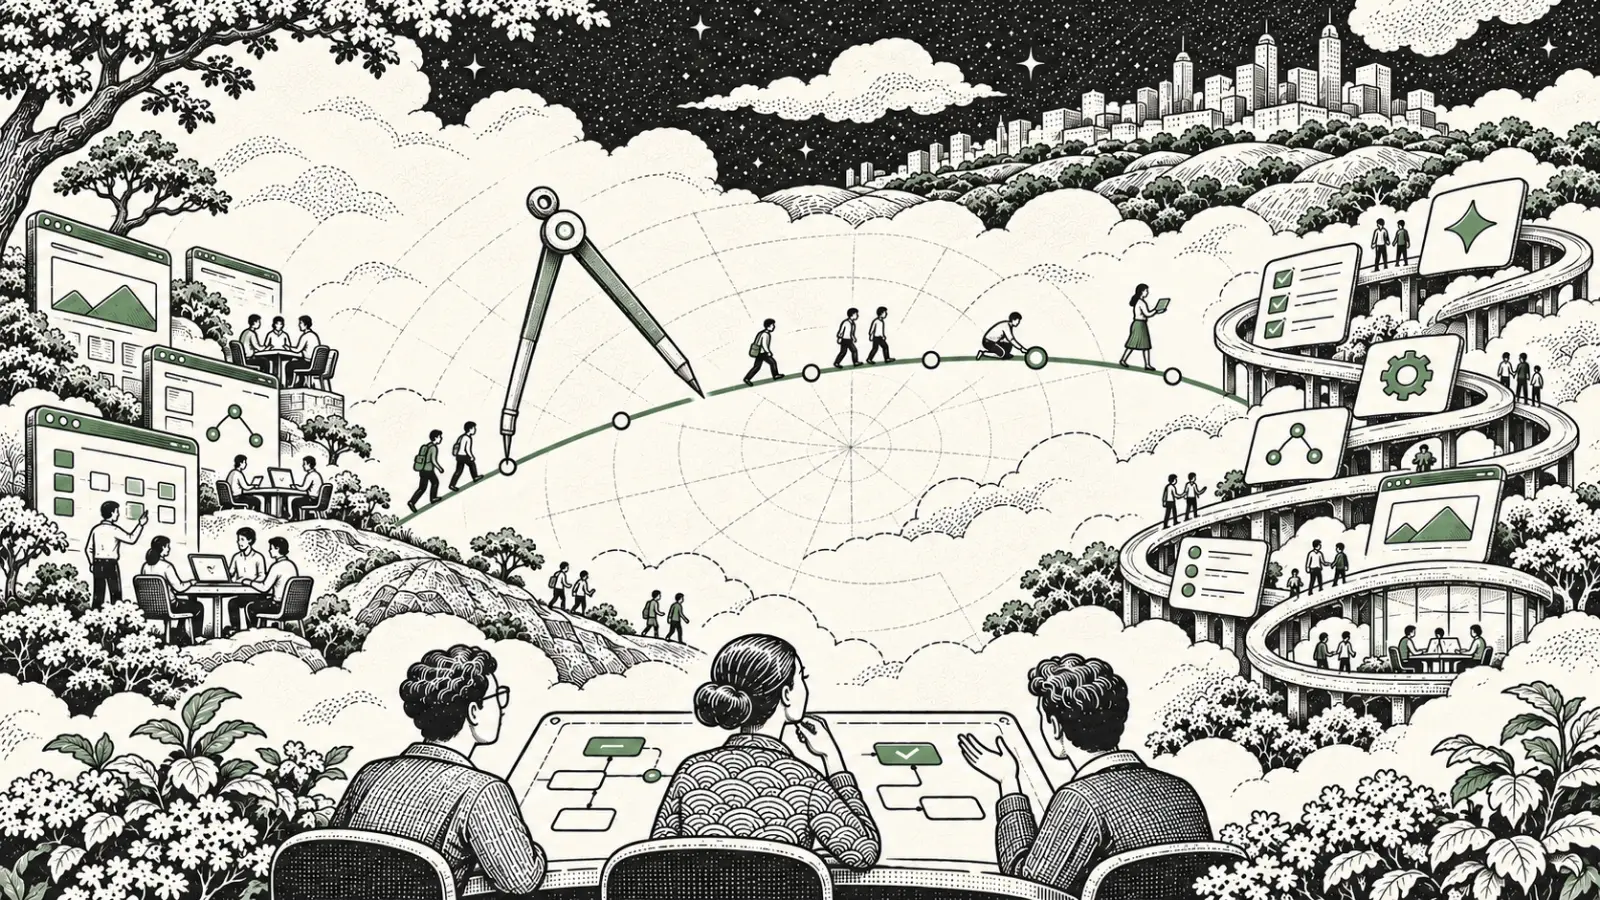
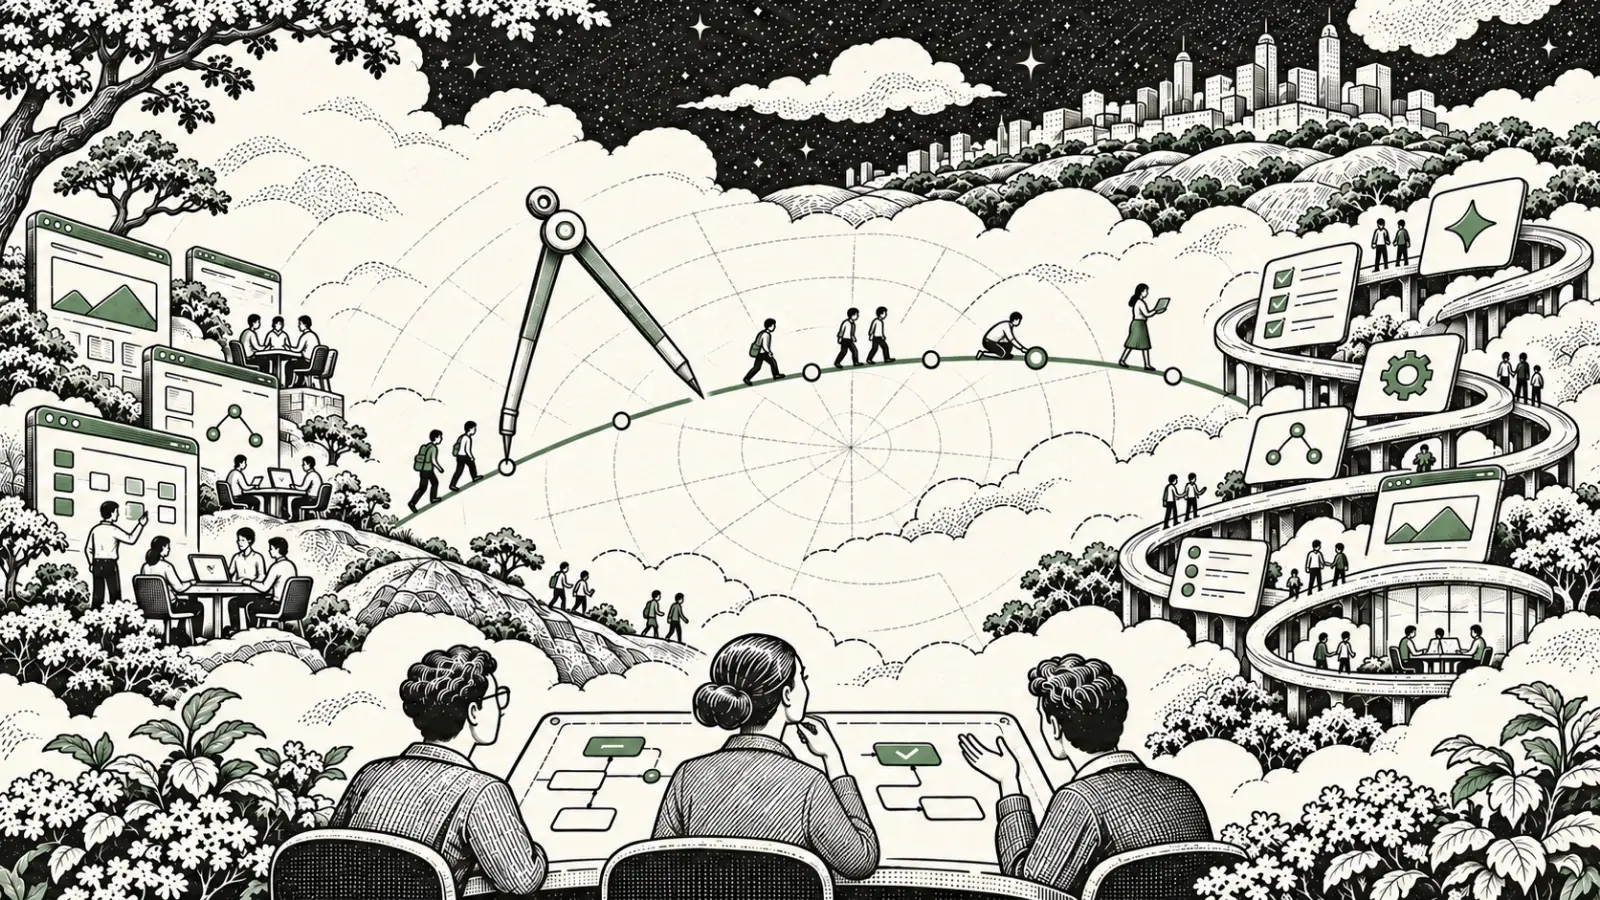
Writing: the Chapter 1 heroes framed as plates, plain clothing in Lesson 1
The open items from the Chapter 1 review that could be closed.

- shift.css: .shift-hero-art--plate gives a Narrative Ink hero the
  card radius, a hairline, and the resting shadow. A full plate left
  bare sat on the sage ground as a pale square-cornered rectangle
  where the old heroes were transparent. The modifier is on the three
  redrawn heroes only; the nine transparent ones keep the bare class.
  shift.css?v= 18 -> 19 on the thirteen pages that load it.
- Lesson 1's hero and concept: the dispatcher's wave-pattern jacket
  redrawn as plain hatching, nothing else moved.

Each of the three lessons counts one more raised surface in cards.mjs,
its hero: 14, 17, and 15. resting, states, typescale, curves, and
cards pass scoped to the three; readtime and the fast six pass; shots
clean at 390, 768, and 1440; all 45 Chapter 1 files pass palette.

diff --git a/writing/what-changes-when-you-design-the-task-instead-of-the-app.html b/writing/what-changes-when-you-design-the-task-instead-of-the-app.html
@@ -115,7 +115,7 @@
   <link rel="stylesheet" href="../style.css?v=20261114b" />
   <link rel="stylesheet" href="../site-nav.css?v=20261030b" />
   <link rel="stylesheet" href="../read-aloud.css?v=7" />
-  <link rel="stylesheet" href="shift.css?v=18" />
+  <link rel="stylesheet" href="shift.css?v=19" />
   <script src="../site-nav.js?v=20260906a" defer></script>
   <script src="../read-aloud.js?v=4" defer></script>
   <script src="../writing.js?v=20261030a" defer></script>
@@ -275,7 +275,7 @@
           <h1 class="case-title">What changes when you design the task instead of the app?</h1>
           <p class="build-dek">The unit of design moves from one application&rsquo;s screens to the whole job a person is trying to finish, with agents carrying the steps between tools. The design work becomes deciding what the agent gathers, what it shows, and where the person decides.</p>
           </div>
-          <img class="shift-hero-art" src="../img/writing/shift/narrative-ink/chapter-1/chapter1-lesson1-hero.webp?v=4" width="1600" height="900" alt="" decoding="async" />
+          <img class="shift-hero-art shift-hero-art--plate" src="../img/writing/shift/narrative-ink/chapter-1/chapter1-lesson1-hero.webp?v=5" width="1600" height="900" alt="" decoding="async" />
         </div>
         <aside class="shift-terms" aria-labelledby="shift-terms-label">
           <p class="shift-terms-label" id="shift-terms-label">Three terms first</p>
@@ -352,7 +352,7 @@
           <figure class="writing-figure shift-concept">
             <figcaption>What the person does between the tools, drawn</figcaption>
             <div class="shift-concept-body">
-              <img class="shift-concept-art" src="../img/writing/shift/narrative-ink/chapter-1/chapter1-lesson1-human-decision.webp?v=3" width="960" height="640" loading="lazy" decoding="async" alt="An illustrated agent gathers route, time, and warehouse evidence for a dispatcher, who can approve or decline." />
+              <img class="shift-concept-art" src="../img/writing/shift/narrative-ink/chapter-1/chapter1-lesson1-human-decision.webp?v=4" width="960" height="640" loading="lazy" decoding="async" alt="An illustrated agent gathers route, time, and warehouse evidence for a dispatcher, who can approve or decline." />
               <p class="shift-concept-line">Three tools, one job. Design the job, and the tools line up behind it.</p>
             </div>
           </figure>

diff --git a/writing/how-do-you-write-design-quality-down-so-an-agent-can-use-it.html b/writing/how-do-you-write-design-quality-down-so-an-agent-can-use-it.html
@@ -115,7 +115,7 @@
   <link rel="stylesheet" href="../style.css?v=20261114b" />
   <link rel="stylesheet" href="../site-nav.css?v=20261030b" />
   <link rel="stylesheet" href="../read-aloud.css?v=7" />
-  <link rel="stylesheet" href="shift.css?v=18" />
+  <link rel="stylesheet" href="shift.css?v=19" />
   <script src="../site-nav.js?v=20260906a" defer></script>
   <script src="../read-aloud.js?v=4" defer></script>
   <script src="../writing.js?v=20261030a" defer></script>
@@ -273,7 +273,7 @@
           <h1 class="case-title">How do you write design quality down so an agent can use it?</h1>
           <p class="build-dek">Put it in three places: a design system that says why, not only what; checks that run on every change; and a definition of done written before the build starts. Judgment used to spread through reviews and handoffs. With agents building, it has to spread through the system itself.</p>
           </div>
-          <img class="shift-hero-art" src="../img/writing/shift/narrative-ink/chapter-1/chapter1-lesson3-hero.webp?v=1" width="1600" height="900" alt="" decoding="async" />
+          <img class="shift-hero-art shift-hero-art--plate" src="../img/writing/shift/narrative-ink/chapter-1/chapter1-lesson3-hero.webp?v=1" width="1600" height="900" alt="" decoding="async" />
         </div>
         <aside class="shift-terms" aria-labelledby="shift-terms-label">
           <p class="shift-terms-label" id="shift-terms-label">Three terms first</p>

diff --git a/writing/what-is-ux-for-when-agents-build-the-software.html b/writing/what-is-ux-for-when-agents-build-the-software.html
@@ -115,7 +115,7 @@
   <link rel="stylesheet" href="../style.css?v=20261114b" />
   <link rel="stylesheet" href="../site-nav.css?v=20261030b" />
   <link rel="stylesheet" href="../read-aloud.css?v=7" />
-  <link rel="stylesheet" href="shift.css?v=18" />
+  <link rel="stylesheet" href="shift.css?v=19" />
   <script src="../site-nav.js?v=20260906a" defer></script>
   <script src="../read-aloud.js?v=4" defer></script>
   <script src="../writing.js?v=20261030a" defer></script>
@@ -274,7 +274,7 @@
           <h1 class="case-title">What is UX for when agents build the software?</h1>
           <p class="build-dek">Three things a factory can&rsquo;t do for itself: decide what&rsquo;s worth building, judge whether what it built works for people, and supply the context it builds from. An AI pipeline can plan, build, test, and ship without anyone asking a user, and it will report that everything is fine.</p>
           </div>
-          <img class="shift-hero-art" src="../img/writing/shift/narrative-ink/chapter-1/chapter1-lesson2-hero.webp?v=1" width="1600" height="900" alt="" decoding="async" />
+          <img class="shift-hero-art shift-hero-art--plate" src="../img/writing/shift/narrative-ink/chapter-1/chapter1-lesson2-hero.webp?v=1" width="1600" height="900" alt="" decoding="async" />
         </div>
         <aside class="shift-terms" aria-labelledby="shift-terms-label">
           <p class="shift-terms-label" id="shift-terms-label">Three terms first</p>

diff --git a/writing/shift.css b/writing/shift.css
@@ -102,6 +102,17 @@
   height: auto;
   aspect-ratio: 16 / 9;
 }
+/* A Narrative Ink hero is a full plate, paper to every edge, where the
+   first heroes were one object on a transparent ground. Left bare, the
+   plate sits on the chapter ground as a pale square-cornered rectangle, so
+   it takes the frame the scene below it has: the card radius, a hairline,
+   and the resting shadow. The modifier goes on the <img> with the plate;
+   a transparent hero keeps the bare class. */
+.shift-hero-art--plate {
+  border: 1px solid var(--rule-card);
+  border-radius: var(--radius-xl);
+  box-shadow: var(--shadow-card);
+}
 .shift-series {
   display: flex;
   flex-wrap: wrap;

diff --git a/writing/how-do-you-run-a-design-sprint-for-an-ai-product.html b/writing/how-do-you-run-a-design-sprint-for-an-ai-product.html
@@ -115,7 +115,7 @@
   <link rel="stylesheet" href="../style.css?v=20261114b" />
   <link rel="stylesheet" href="../site-nav.css?v=20261030b" />
   <link rel="stylesheet" href="../read-aloud.css?v=7" />
-  <link rel="stylesheet" href="shift.css?v=18" />
+  <link rel="stylesheet" href="shift.css?v=19" />
   <script src="../site-nav.js?v=20260906a" defer></script>
   <script src="../read-aloud.js?v=4" defer></script>
   <script src="../writing.js?v=20261030a" defer></script>

diff --git a/writing/index.html b/writing/index.html
@@ -118,7 +118,7 @@
   <link rel="stylesheet" href="../style.css?v=20261114c" />
   <link rel="stylesheet" href="../site-nav.css?v=20261030b" />
   <link rel="stylesheet" href="index.css?v=3" />
-  <link rel="stylesheet" href="shift.css?v=18" />
+  <link rel="stylesheet" href="shift.css?v=19" />
   <script src="../site-nav.js?v=20260906a" defer></script>
   <script src="shift.js?v=2" defer></script>
   <!-- The header logo plays a one-shot reveal clip on load and fades out

diff --git a/writing/what-does-a-requirements-doc-need-once-the-product-is-ai.html b/writing/what-does-a-requirements-doc-need-once-the-product-is-ai.html
@@ -115,7 +115,7 @@
   <link rel="stylesheet" href="../style.css?v=20261114b" />
   <link rel="stylesheet" href="../site-nav.css?v=20261030b" />
   <link rel="stylesheet" href="../read-aloud.css?v=7" />
-  <link rel="stylesheet" href="shift.css?v=18" />
+  <link rel="stylesheet" href="shift.css?v=19" />
   <script src="../site-nav.js?v=20260906a" defer></script>
   <script src="../read-aloud.js?v=4" defer></script>
   <script src="../writing.js?v=20261030a" defer></script>

diff --git a/writing/what-is-an-ai-agent-actually-made-of.html b/writing/what-is-an-ai-agent-actually-made-of.html
@@ -115,7 +115,7 @@
   <link rel="stylesheet" href="../style.css?v=20261114b" />
   <link rel="stylesheet" href="../site-nav.css?v=20261030b" />
   <link rel="stylesheet" href="../read-aloud.css?v=7" />
-  <link rel="stylesheet" href="shift.css?v=18" />
+  <link rel="stylesheet" href="shift.css?v=19" />
   <script src="../site-nav.js?v=20260906a" defer></script>
   <script src="../read-aloud.js?v=4" defer></script>
   <script src="../writing.js?v=20261030a" defer></script>

diff --git a/writing/what-makes-onboarding-in-an-ai-app-feel-personal.html b/writing/what-makes-onboarding-in-an-ai-app-feel-personal.html
@@ -115,7 +115,7 @@
   <link rel="stylesheet" href="../style.css?v=20261114b" />
   <link rel="stylesheet" href="../site-nav.css?v=20261030b" />
   <link rel="stylesheet" href="../read-aloud.css?v=7" />
-  <link rel="stylesheet" href="shift.css?v=18" />
+  <link rel="stylesheet" href="shift.css?v=19" />
   <script src="../site-nav.js?v=20260906a" defer></script>
   <script src="../read-aloud.js?v=4" defer></script>
   <script src="../writing.js?v=20261030a" defer></script>

diff --git a/writing/what-should-come-first-when-you-redesign-an-ai-product.html b/writing/what-should-come-first-when-you-redesign-an-ai-product.html
@@ -115,7 +115,7 @@
   <link rel="stylesheet" href="../style.css?v=20261114b" />
   <link rel="stylesheet" href="../site-nav.css?v=20261030b" />
   <link rel="stylesheet" href="../read-aloud.css?v=7" />
-  <link rel="stylesheet" href="shift.css?v=18" />
+  <link rel="stylesheet" href="shift.css?v=19" />
   <script src="../site-nav.js?v=20260906a" defer></script>
   <script src="../read-aloud.js?v=4" defer></script>
   <script src="../writing.js?v=20261030a" defer></script>

diff --git a/writing/what-should-you-never-do-when-building-an-agent.html b/writing/what-should-you-never-do-when-building-an-agent.html
@@ -115,7 +115,7 @@
   <link rel="stylesheet" href="../style.css?v=20261114b" />
   <link rel="stylesheet" href="../site-nav.css?v=20261030b" />
   <link rel="stylesheet" href="../read-aloud.css?v=7" />
-  <link rel="stylesheet" href="shift.css?v=18" />
+  <link rel="stylesheet" href="shift.css?v=19" />
   <script src="../site-nav.js?v=20260906a" defer></script>
   <script src="../read-aloud.js?v=4" defer></script>
   <script src="../writing.js?v=20261030a" defer></script>

diff --git a/writing/who-sets-the-rules-when-research-uses-digital-twins.html b/writing/who-sets-the-rules-when-research-uses-digital-twins.html
@@ -115,7 +115,7 @@
   <link rel="stylesheet" href="../style.css?v=20261114b" />
   <link rel="stylesheet" href="../site-nav.css?v=20261030b" />
   <link rel="stylesheet" href="../read-aloud.css?v=7" />
-  <link rel="stylesheet" href="shift.css?v=18" />
+  <link rel="stylesheet" href="shift.css?v=19" />
   <script src="../site-nav.js?v=20260906a" defer></script>
   <script src="../read-aloud.js?v=4" defer></script>
   <script src="../writing.js?v=20261030a" defer></script>
